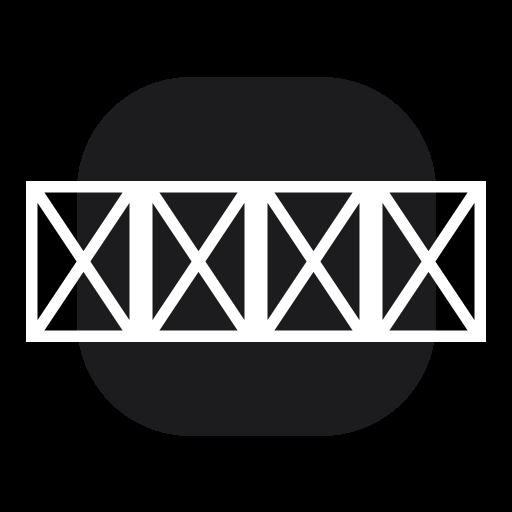
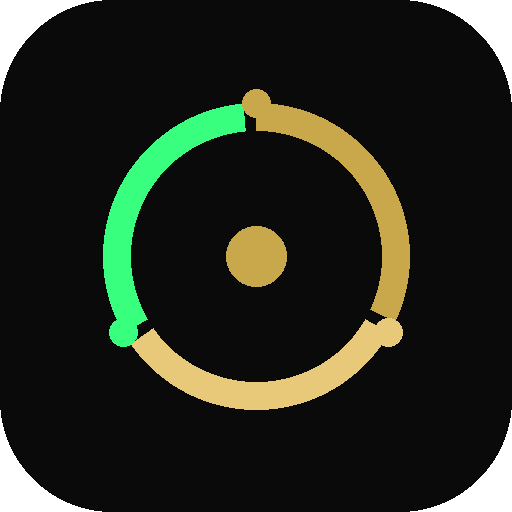
Add files via upload

diff --git a/index.html b/index.html
@@ -9,7 +9,8 @@
 <meta name="theme-color" content="#080808">
 <title>Atleta</title>
 <link rel="manifest" href="manifest.json">
-<link rel="apple-touch-icon" href="icon-192.png">
+<link rel="apple-touch-icon" href="apple-touch-icon.png">
+<link rel="apple-touch-icon-precomposed" href="apple-touch-icon.png">
 <link rel="preconnect" href="https://fonts.googleapis.com">
 <link rel="preconnect" href="https://fonts.gstatic.com" crossorigin>
 <link href="https://fonts.googleapis.com/css2?family=Cormorant+Garamond:ital,wght@0,300;0,400;0,600;1,300;1,400&family=DM+Sans:wght@300;400;500;600&display=swap" rel="stylesheet">
@@ -627,7 +628,7 @@ let totalKcal=0,totalProt=0,totalCarb=0,totalFat=0;
 const loggedMeals=new Set();
 
 // ── DATE + COUNTDOWN ──
-const marathon=new Date('2025-09-20');
+const marathon=new Date('2026-09-20');
 const today=new Date();
 const daysLeft=Math.ceil((marathon-today)/86400000);
 document.getElementById('home-days').textContent=daysLeft;